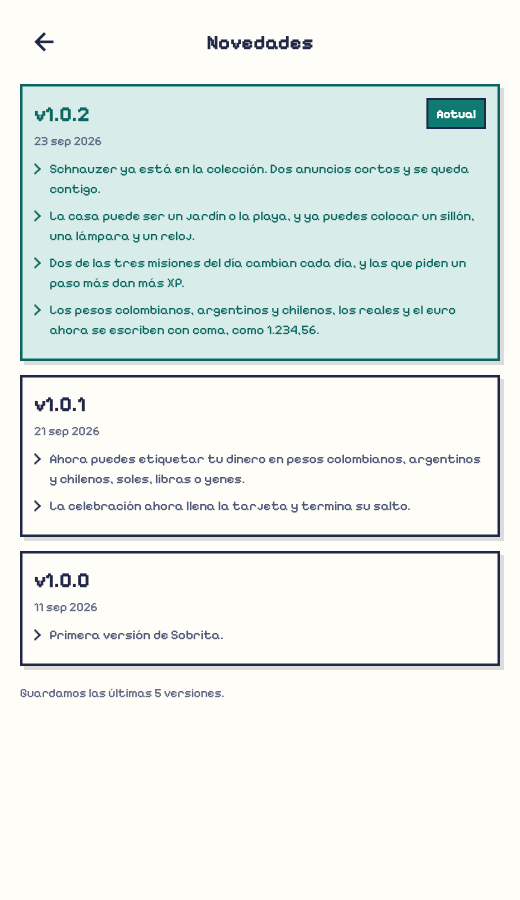
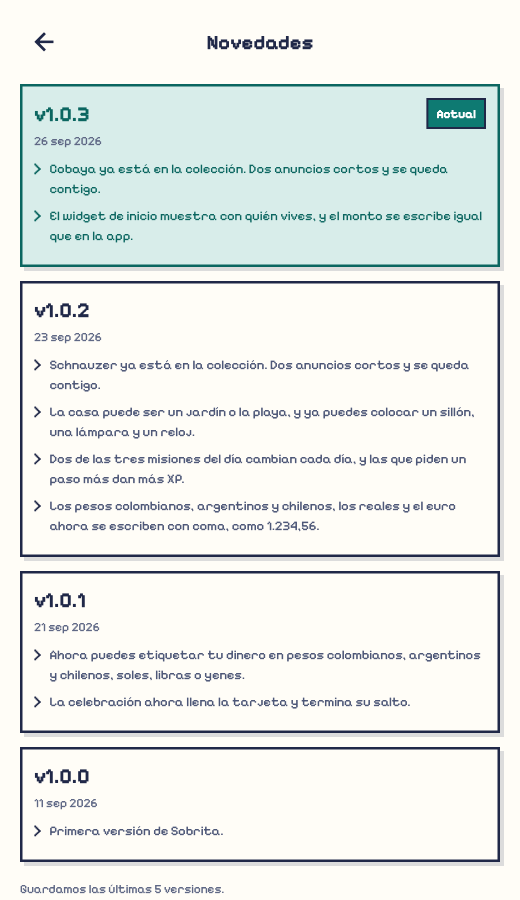
chore: finalize 1.0.3 release notes and visual golden

Changed region(s): [[0.0308, 0.1867, 0.9846, 0.9956], [0.7385, 0.4978, 0.9231, 0.5289], [0.1538, 0.1244, 0.1846, 0.1556]]

diff --git a/test/release_notes_test.dart b/test/release_notes_test.dart
@@ -118,7 +118,9 @@ void main() {
         await tester.scrollUntilVisible(version, 200);
         expect(version, findsOneWidget);
       }
-      // Exactly one card claims to be the build in hand.
+      // Exactly one card claims to be the build in hand. The walk above
+      // leaves the oldest card on screen, so come back up to the current one.
+      await tester.scrollUntilVisible(find.text('Actual'), -200);
       expect(find.text('Actual'), findsOneWidget);
     });
 
@@ -218,6 +220,8 @@ void main() {
       await tester.pumpAndSettle();
 
       expect(find.byType(ReleaseNotesScreen), findsOneWidget);
+      // The running build here is the oldest note, below the fold.
+      await tester.scrollUntilVisible(find.text('Actual'), 200);
       expect(find.text('Actual'), findsOneWidget);
     });
   });

diff --git a/test/release_announcement_test.dart b/test/release_announcement_test.dart
@@ -272,7 +272,7 @@ void main() {
           'sobra_notes_announced_version': '1.0.1',
           'sobra_notes_read_version': '1.0.1',
         }),
-        versionLoader: _reports('1.0.2'),
+        versionLoader: _reports(releaseNotes.first.version),
       );
       await announcements.start();
 
@@ -283,7 +283,7 @@ void main() {
       );
       await tester.pumpAndSettle();
 
-      expect(find.text('v1.0.2'), findsOneWidget);
+      expect(find.text('v${releaseNotes.first.version}'), findsOneWidget);
     });
   });
 }

diff --git a/lib/data/release_notes.dart b/lib/data/release_notes.dart
@@ -37,6 +37,14 @@ class ReleaseNote {
 /// nothing, which is what [ReleaseAnnouncements] reads a missing note as.
 final releaseNotes = <ReleaseNote>[
   ReleaseNote(
+    version: '1.0.3',
+    releasedOn: DateTime(2026, 9, 26),
+    lines: [
+      (l10n) => l10n.releaseNote103GuineaPig,
+      (l10n) => l10n.releaseNote103Widget,
+    ],
+  ),
+  ReleaseNote(
     version: '1.0.2',
     releasedOn: DateTime(2026, 9, 23),
     lines: [
